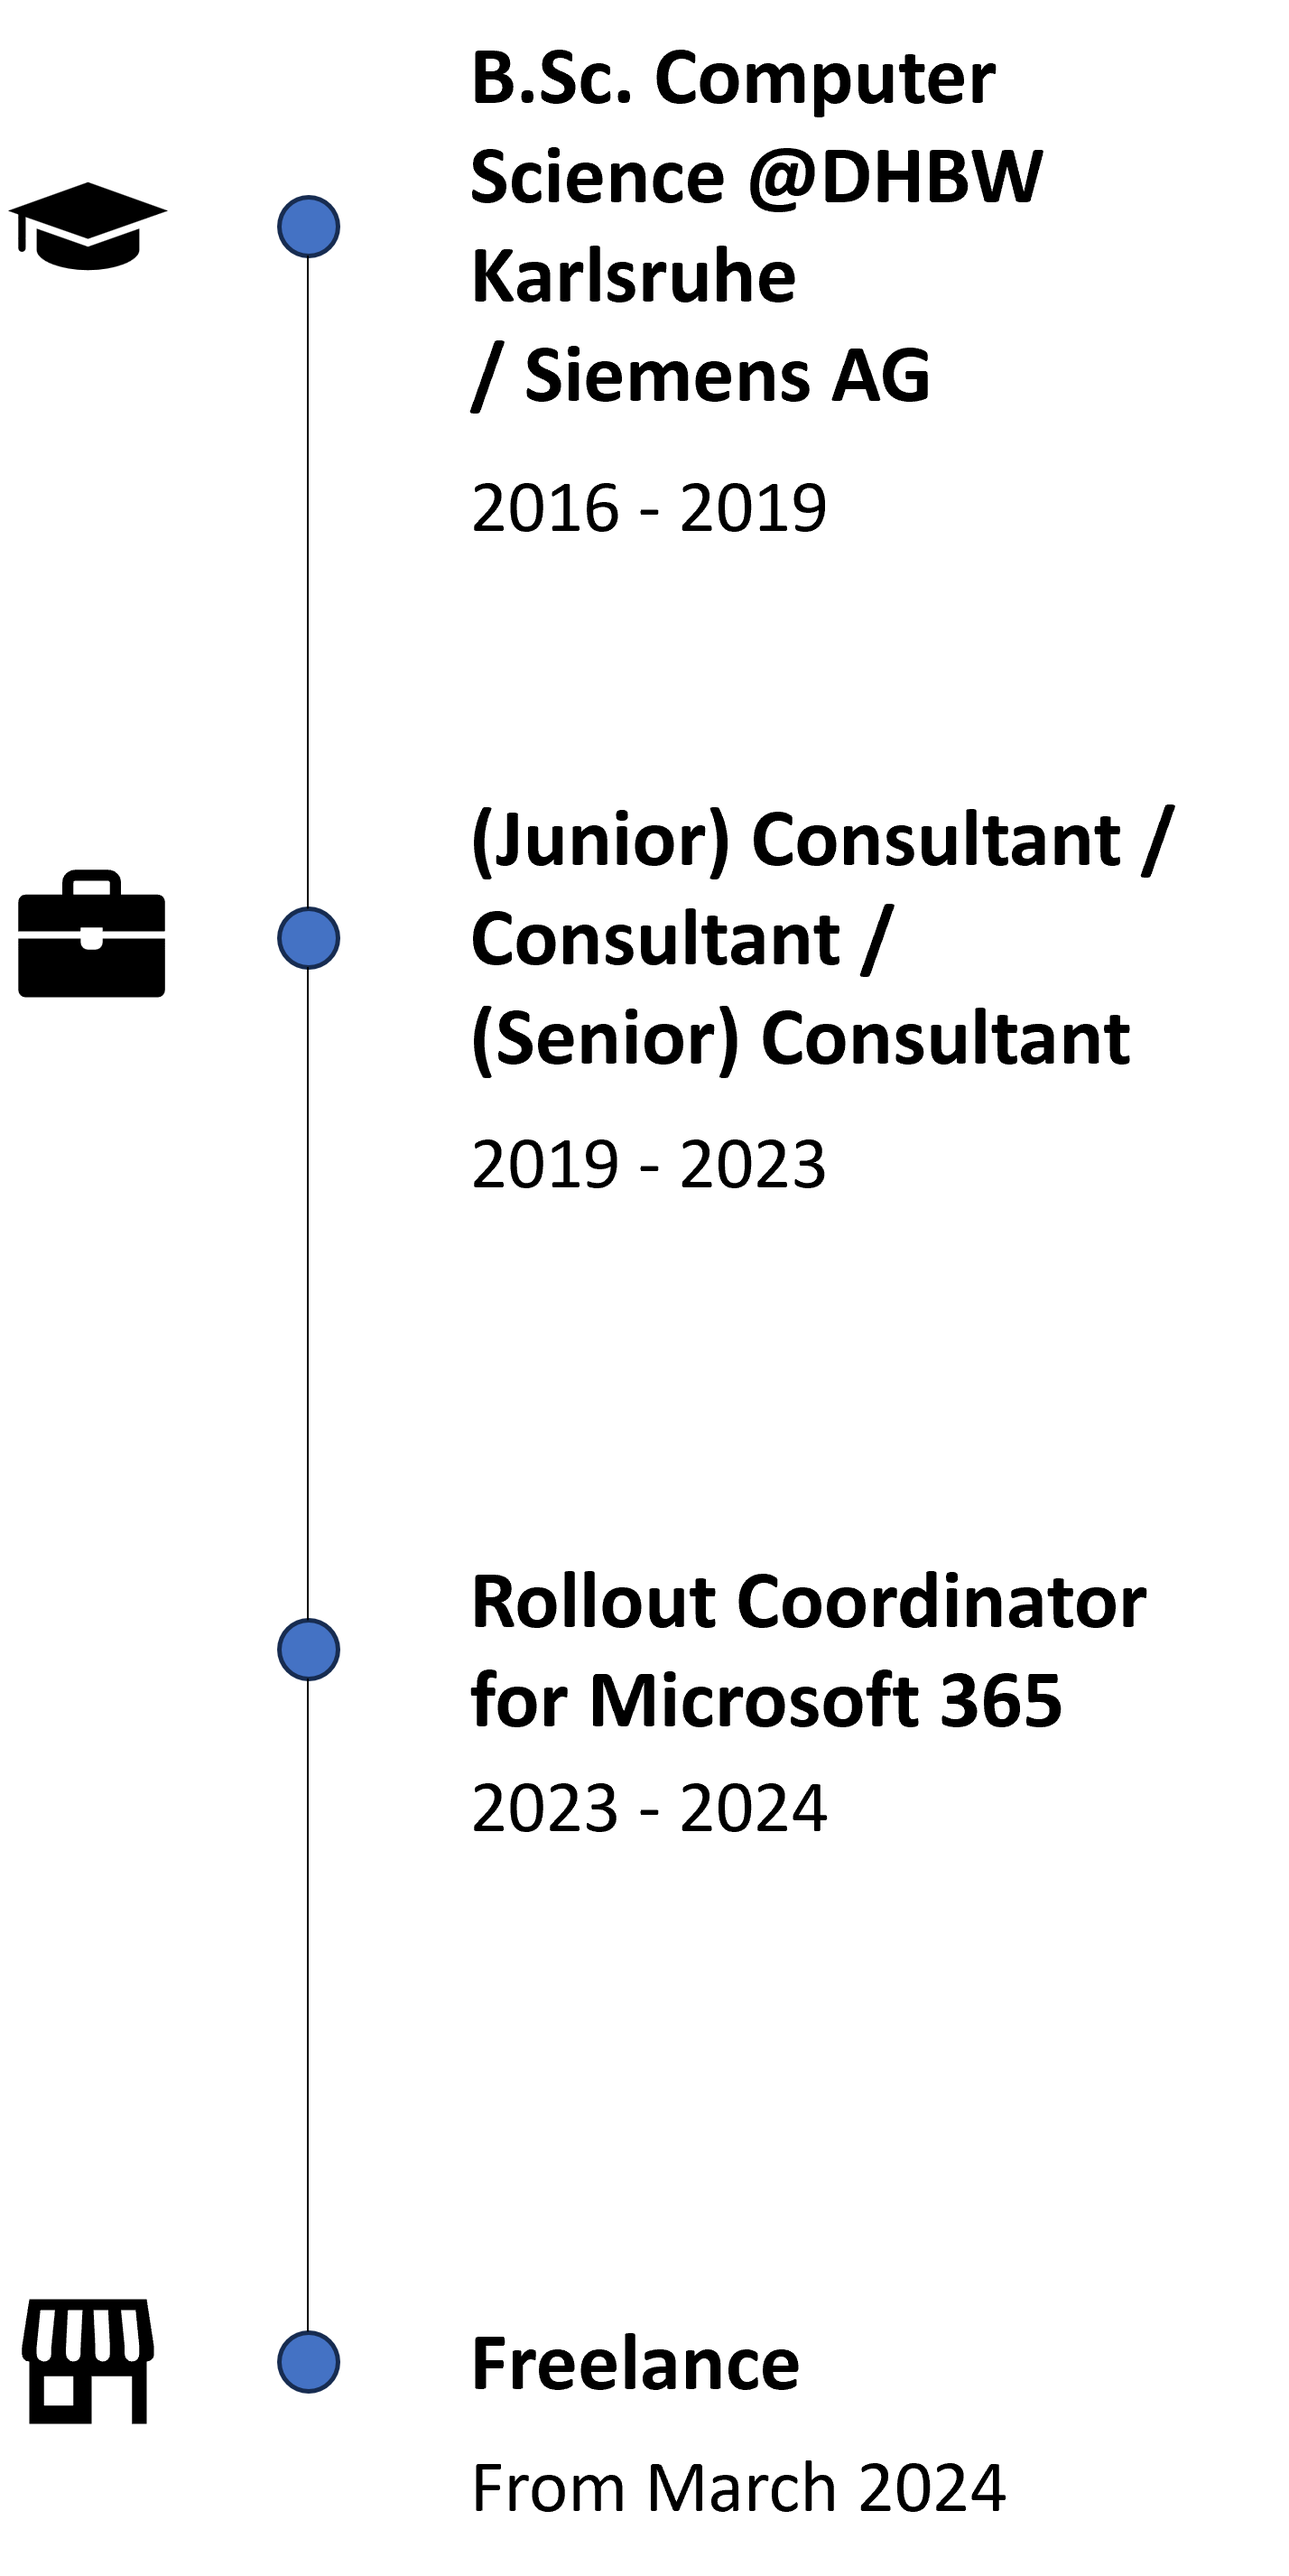
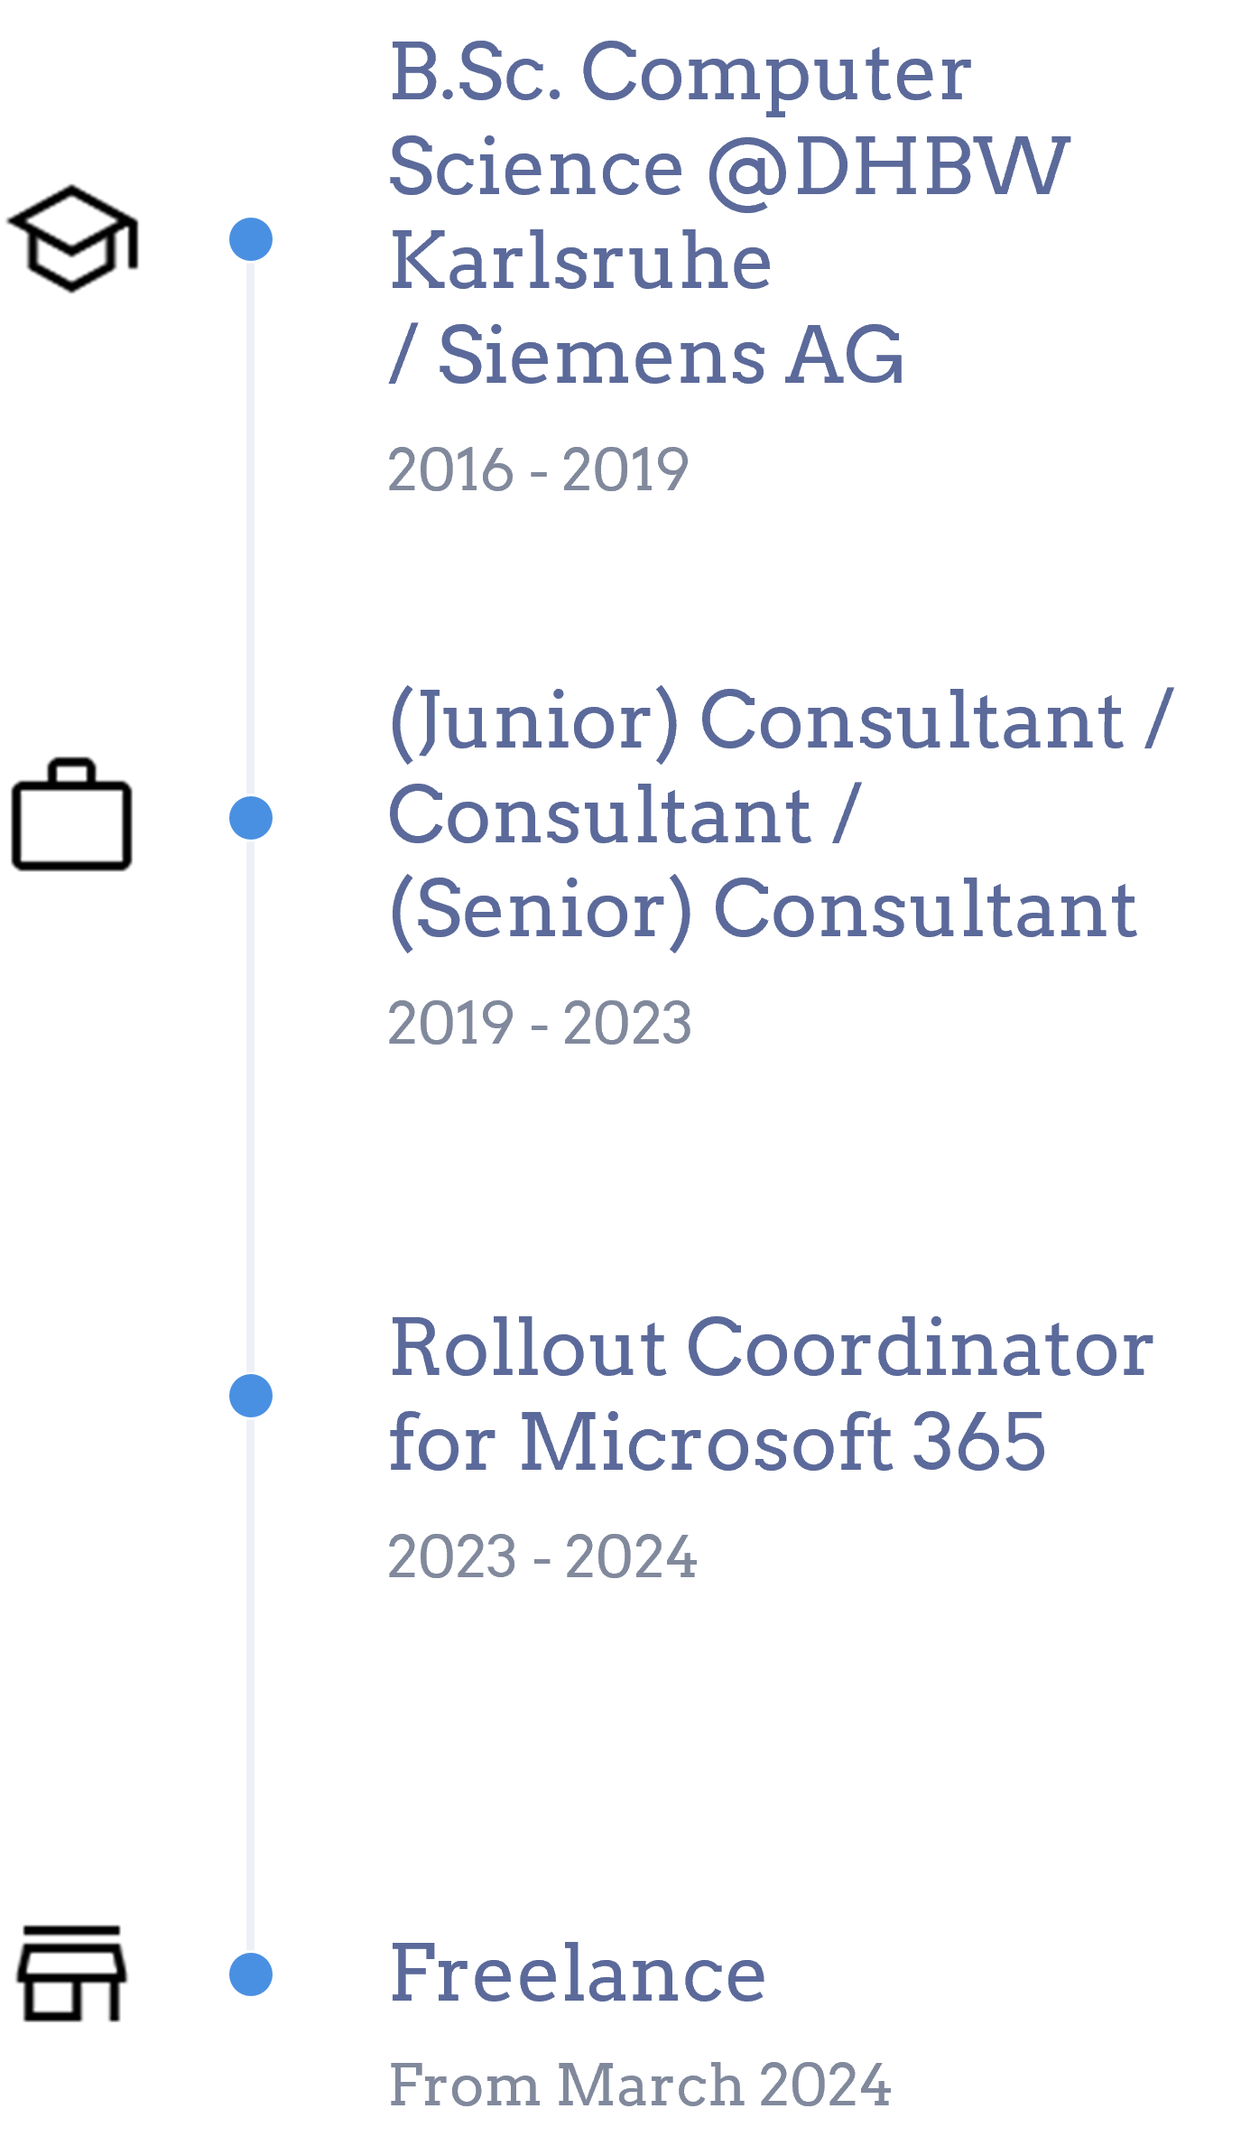
Update Timeline & cards width

diff --git a/Assets/Styles/styles_tablet.css b/Assets/Styles/styles_tablet.css
@@ -17,9 +17,10 @@
 	}
 	.timelineVertical{
 		display:block;
-		width: 90%;
+		width: 50%;
+		margin: 0 auto;
 	}
-	
+
 	.timeline {
 		display: none;
 	}

diff --git a/Assets/Styles/styles.css b/Assets/Styles/styles.css
@@ -370,7 +370,6 @@ h1.name {
 
 
 .cards {
-	max-width: 1120px;
 	display: block;
 }
 
